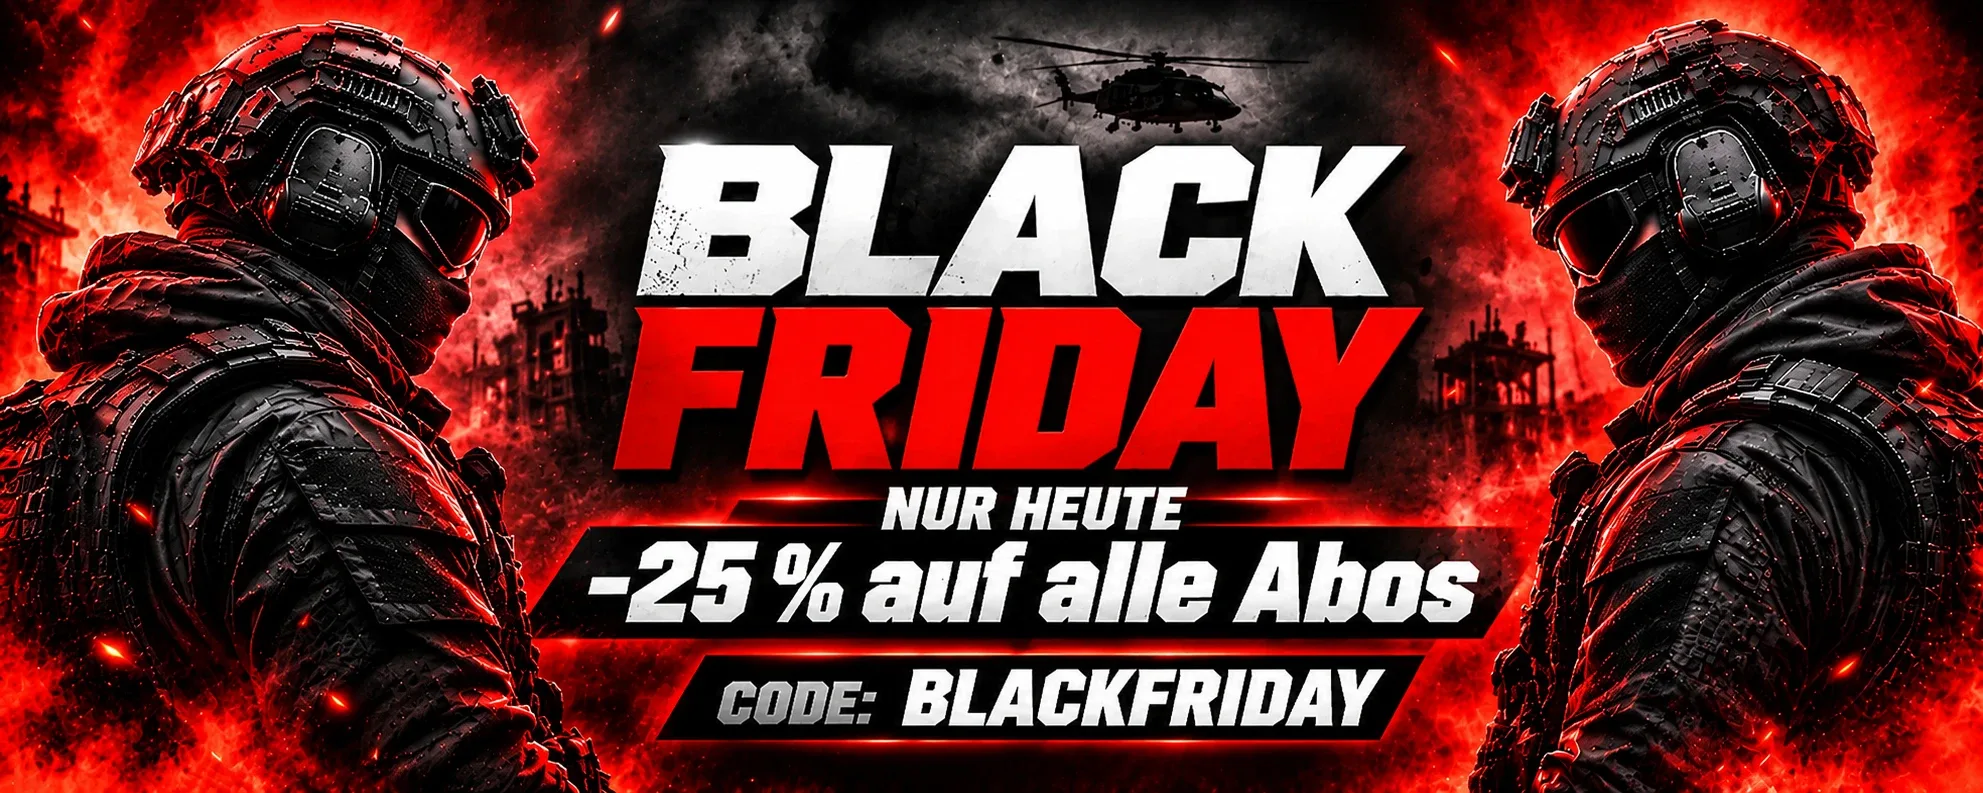
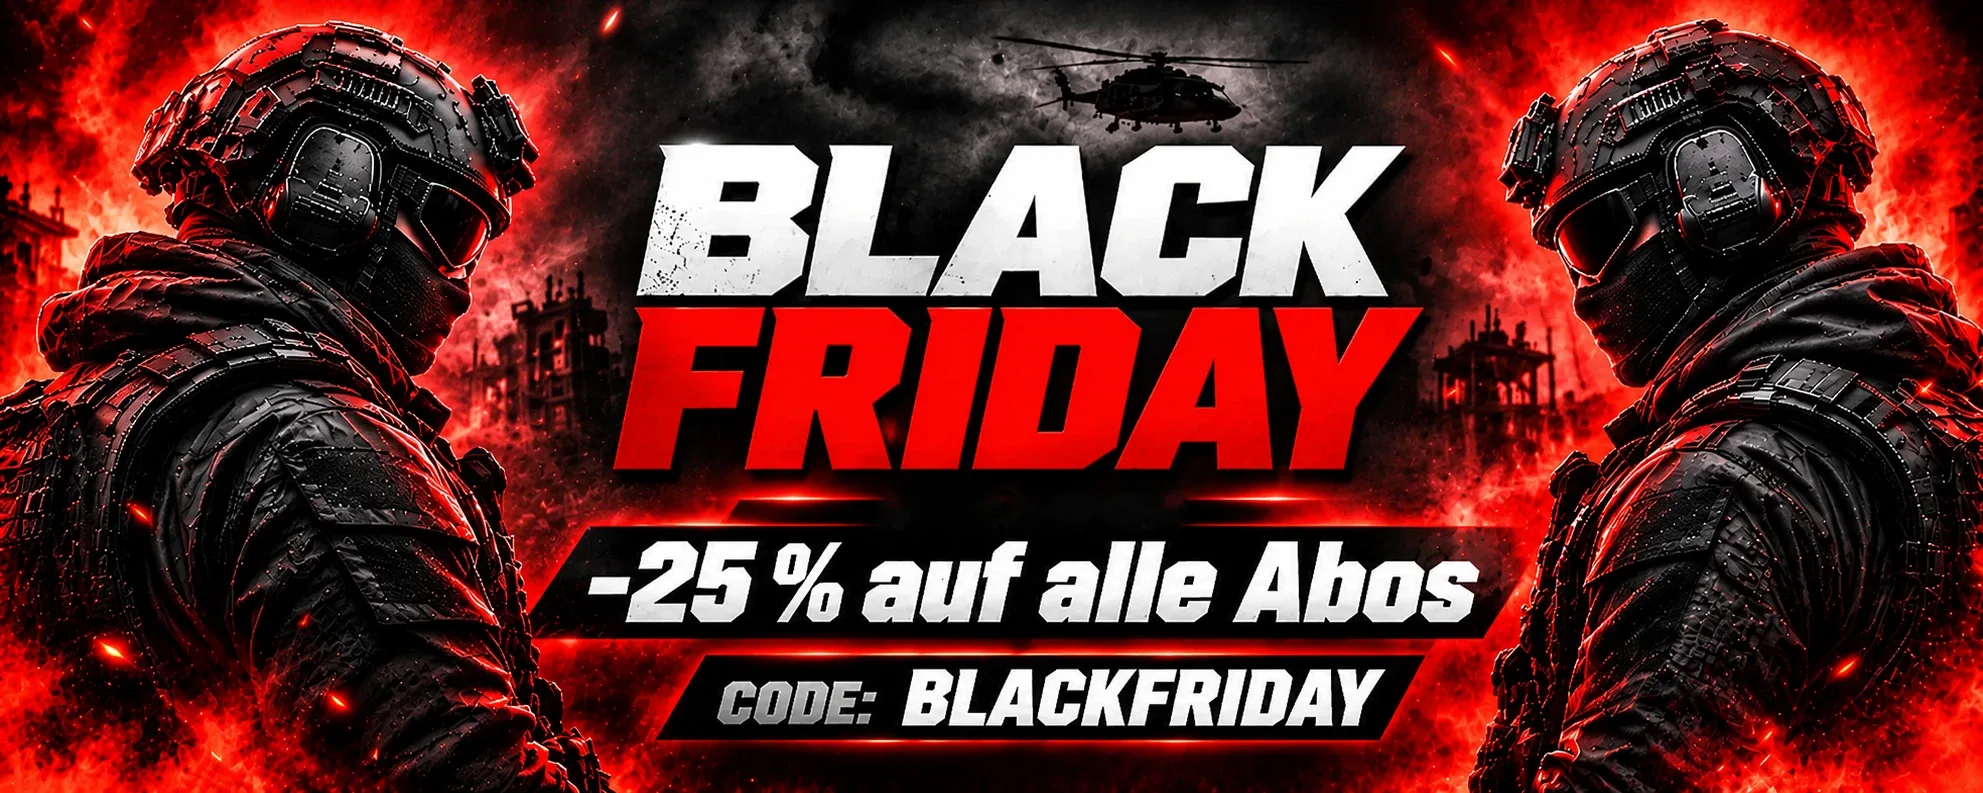
Webseite: Black-Friday-Bild ohne NUR HEUTE

Changed region(s): [[0.4307, 0.6053, 0.6152, 0.6658]]

diff --git a/js/index1.js b/js/index1.js
@@ -404,7 +404,7 @@ function zeigePromo() {
   };
   document.getElementById("prTxt2").textContent = PROMO.code;
   document.getElementById("prCode").onclick = kop; document.getElementById("prCode2").onclick = kop;
-  { const BILD = { BLACKWEEK: "img/aktion-blackweek.webp?v=5", BLACKFRIDAY: "img/aktion-blackfriday.webp?v=1" }, src = BILD[(PROMO.code || "").toUpperCase()]; let a = document.getElementById("prBild");
+  { const BILD = { BLACKWEEK: "img/aktion-blackweek.webp?v=5", BLACKFRIDAY: "img/aktion-blackfriday.webp?v=2" }, src = BILD[(PROMO.code || "").toUpperCase()]; let a = document.getElementById("prBild");
     if (src) { if (!a) { a = document.createElement("a"); a.id = "prBild"; a.href = "#preise"; a.className = "pbild"; a.innerHTML = '<img alt="" width="1983" height="793" decoding="async">'; el.parentNode.insertBefore(a, el); }
       a.querySelector("img").src = src; a.querySelector("img").alt = PROMO.titel + ": " + PROMO.pct + " % mit Code " + PROMO.code; el.style.display = "none"; const bd = document.getElementById("prBald"); if (bd) bd.style.display = "none"; }
     else if (a) { a.remove(); el.style.display = ""; const bd = document.getElementById("prBald"); if (bd) bd.style.display = ""; } }

diff --git a/index.html b/index.html
@@ -826,7 +826,7 @@ details{position:relative}details[open]{border-color:#2f4f8a}
 
 <script src="world.js?v=4"></script>
 <button type="button" id="toTop" aria-label="Nach oben"><svg viewBox="0 0 24 24" fill="none" stroke="currentColor" stroke-width="2.4" stroke-linecap="round" stroke-linejoin="round"><path d="M12 19V5M5.5 11.5 12 5l6.5 6.5"/></svg></button>
-<script src="js/index1.js?v=159"></script>
+<script src="js/index1.js?v=160"></script>
 <script src="js/index2.js?v=1"></script>
 <a class="petab" href="https://www.provenexpert.com/game-booster-vpn/zam6/" target="_blank" rel="noopener" aria-label="Game Booster VPN auf ProvenExpert bewerten"><b class="pst">★<br>★<br>★<br>★<br>★</b><span>Bewerte uns</span><small>auf ProvenExpert</small></a>
 <script src="js/features.js?v=9"></script>
